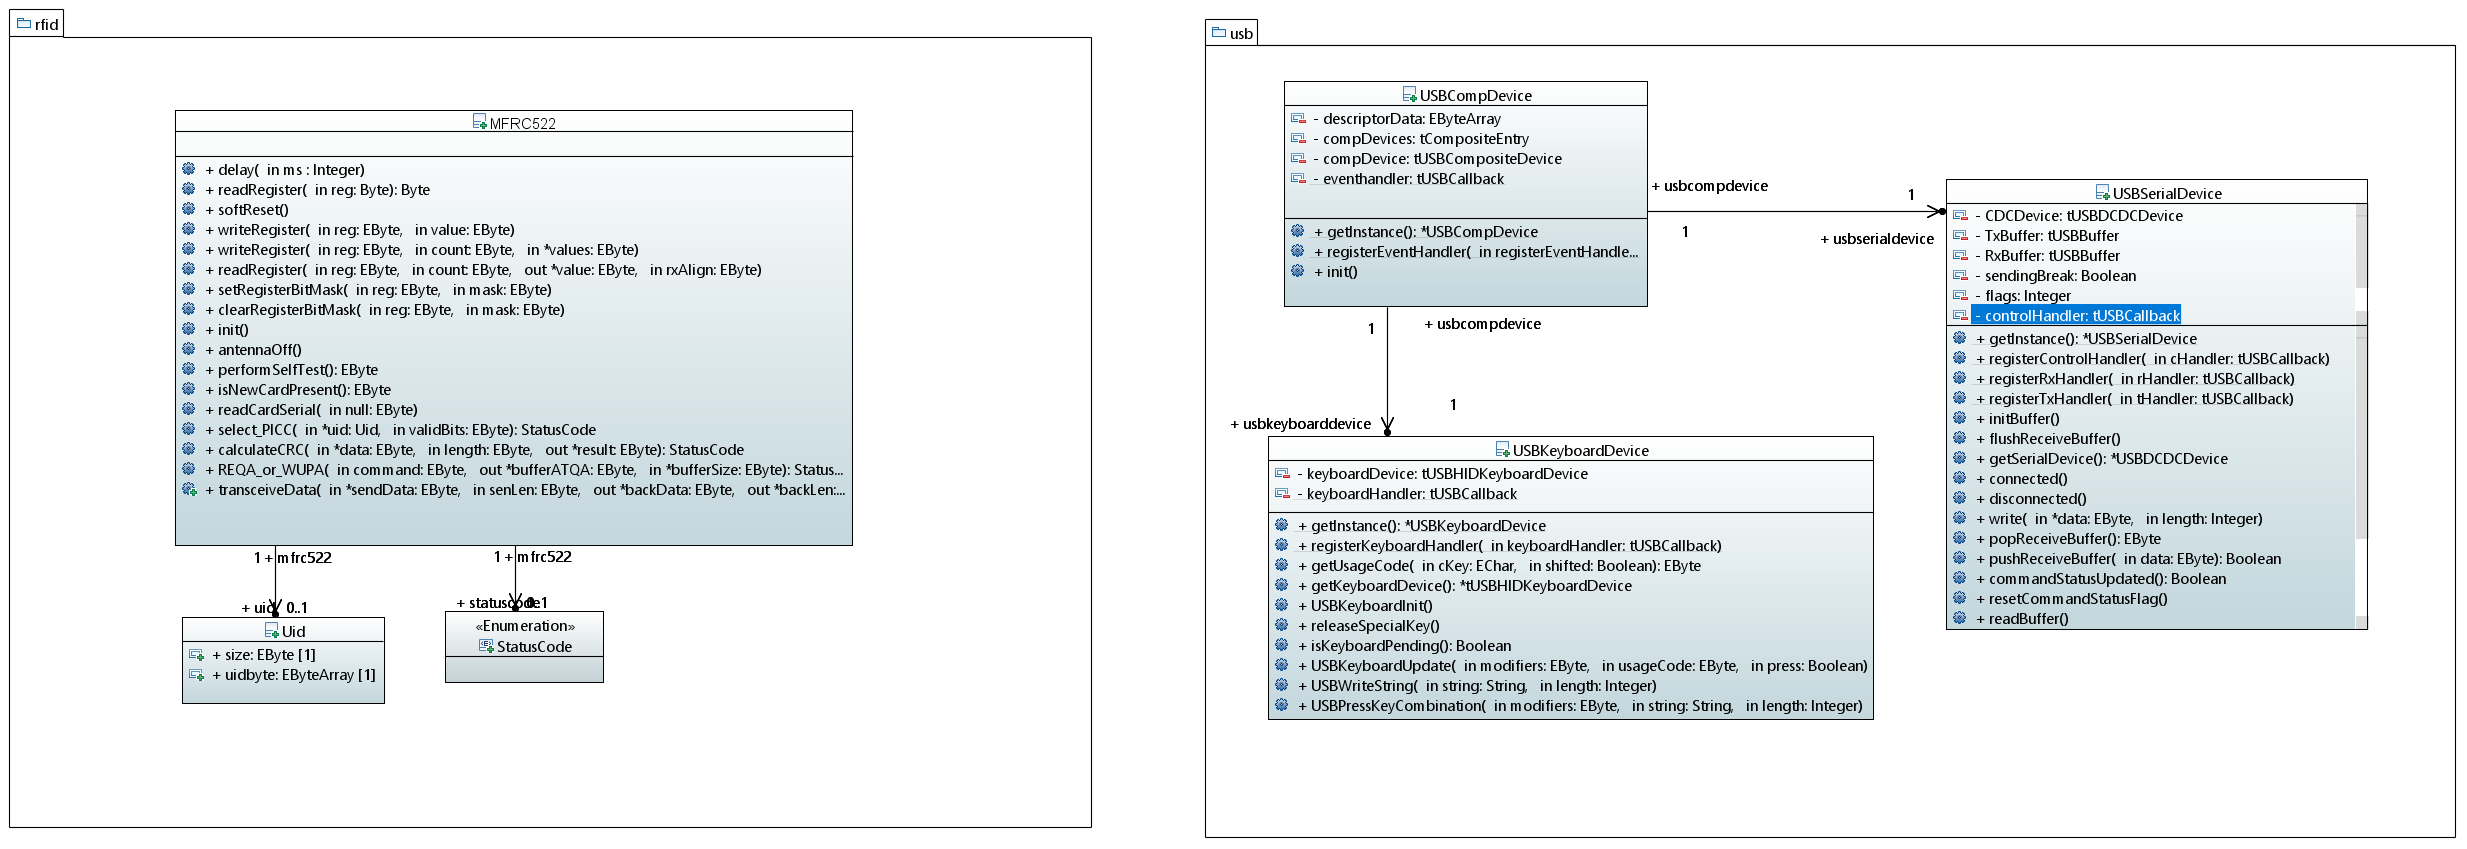
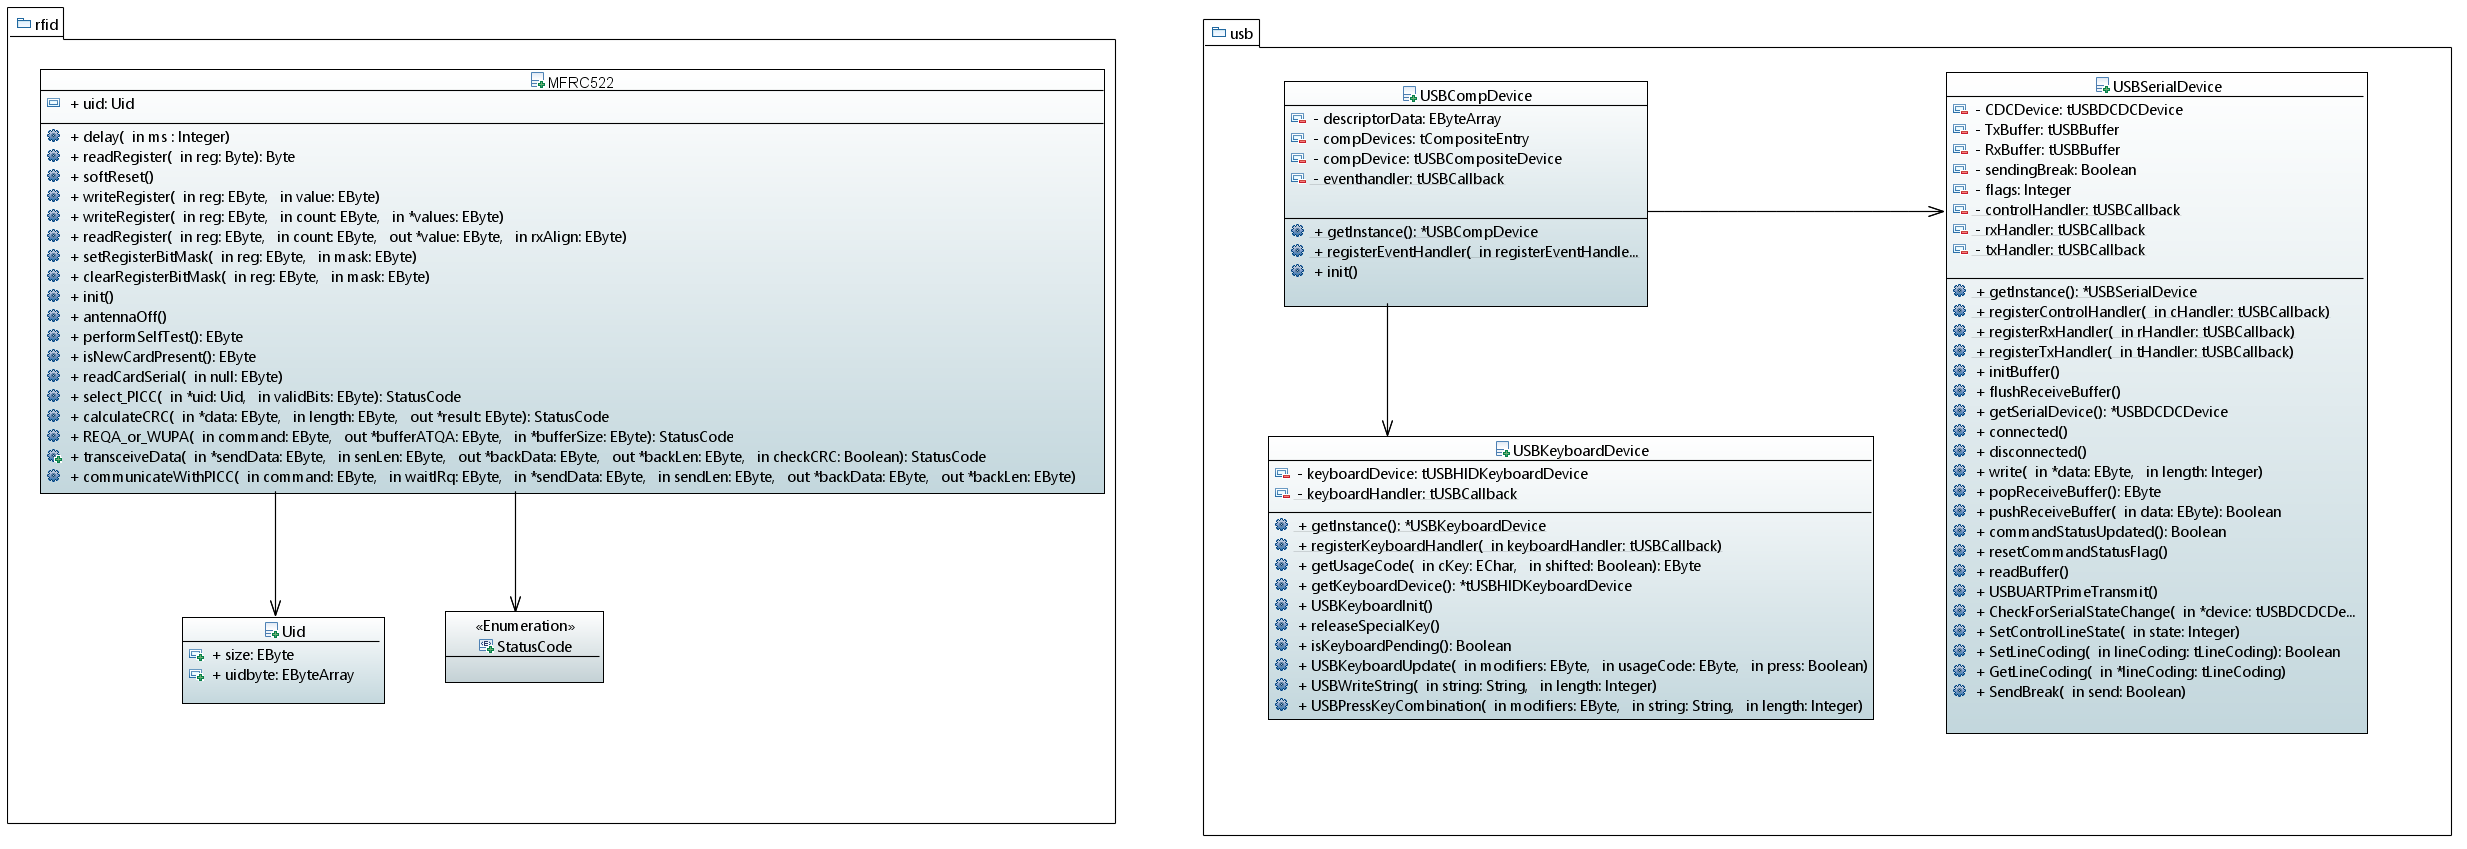
Device software structure

diff --git a/documentation/Smock.md b/documentation/Smock.md
@@ -65,55 +65,45 @@ To controll the reader and to communicate with the computer we use a usb-capable
 
 ![CompositeDiagram](..\diagramme\Smock\CompositeDiagram.PNG)
 
-# 1 Introduction
+## Software Structure
 
-## 1.1 Description
+### Device
 
-Smock (Smart Computer Lock) is a device that locks your computer when you are not at your place and unlocks it when you are back at your place. Smock is able to operate on Windows 10 and Ubuntu. It's able to use smock with only one existing user on your computer, as well as using it on a computer with multiple users. Smock works with an RFID reader and an RFID tag. The user uses the tag to unlock device and takes away the tag when the user wants to lock the computer. When "User A" locks out of the computer, then another "User B" can log into the device with his tag. Smock will switch the user automatically and logs in the other user. 
+The Software of the device is separted into two different parts. The first one which controls the MFRC522 RFID Reader mainly consits of one class, the __MRFC522__ class.
 
-## 1.2 Goals
+This class uses the SPI module provieded by the energia librarys to communicate with the host. The class hold the currently aviable uid in a UID struct. This struct contains an array of bytes that holds the ID. The struct also holds the length of the UID array.
 
-### 1.2.1 Applications
+The __MRFC522__ class offers the needed functions to setup and communicate with the reader. To handle different error values a StatusCode enumeration is used.
 
-Smock is used for Windows 10 and Ubuntu Computer.
+The second part controls the usb communication. The general communication between the host and the device is realized with a serial interface. The device is  represented by the __USBSerialDevice__. It contains a tUSBCDCDevice which is responsible for the serial communication. The tUSBCDCDevice type is provided by the usb Library from Texas Instruments and it is used to register the callbacks to handle different usb events. There are three Callbacks needed for the serial communication. The first one handles the general usb events like connecting or disconnecting the usb connection, the second one handles the event when data was received and the third one handles the event when data was transmitted.
 
-Auch auf anderen Möglich -> spezielle anpassungen an das betriebs system
+The received data is written into a receive buffer and the data that should be transmitted needs to be written in a transmitt buffer.
 
-### 1.2.2 Motivation
+To lock or unlock the host it is necessary to simulate a keyboard device. For this is the __USBKeyboardDevice__ class used. The class handles events received from the host and provides methods to send keys. The event handler callback method is registered with a tUSBHIDKeyboardDevice which is like the tUSBCDCDevice responible for the connection.
 
-People often forget their passwords of an account or choose easy to guess passwords. Smock prevents this and makes it possible to log in to your device without knowing the password.
+Since we are connecting two usb devices to the host via one usb port we need a composite device to combine them. The device is represened by the __USBCompDevice__ class. This class holds both structures of the devices which a responsible for the connection (the tUSBHIDKeyboardDevice  and the tUSBCDCDevice).  Events send from the host can be the releasing or pressing of special keys.
 
-### 1.2.3 Coverage
+Because this class takes over the registration at the host the device also contains a descriptor data array that holds the informations needed by the host. The connection is like the other devices handled by a structure provided by the usb library. This tUSBCompositeDevice struct also registers a event handler for default usb events like connecting or disconnecting.
 
-Smock is able to be used on Windows 10 and Ubuntu Computer. It is also possible have multiple user on a computer.
+![ClassDiagram_rfid](..\diagramme\Smock\ClassDiagram_rfid.png)
 
-### 1.2.4 Unique Selling Point
+![ClassDiagram_usb](..\diagramme\Smock\ClassDiagram_usb.png)
 
-Smock is the first device that allows you to log on or off to your computer using an RFID card.
-
-### 1.2.5 Target
-
-Users at all ages, that are using their computer for Work. Companies, that wants to connect users to a specific device.
-
-# 2 Anforderungen
-
-## 2.1 Funktionale Anforderungen
-
-## 2.2 Nicht-funktionale Anforderungen 
-
-## 2.3 Graphische Benutzerschnittstelle
-
-# 3 Technische Beschreibung
-
-## 3.1 Systemübersicht
-
-### 3.1.1 Schnittstellen
+### Host
 
 
-## 3.5 Entwurf
 
-### Klassendiagramme
+## Software processes
 
-### Sequenzdiagramme
+### Device
 
-# 4  Code Dokumentation
+### Host
+
+## Setup
+
+## Conclusion
+
+## Code Documentation
+
+## Datasheet
+
